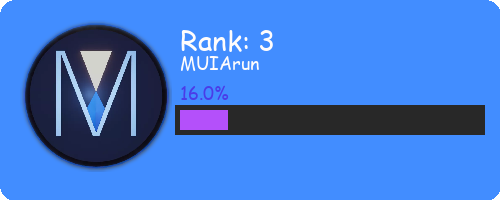
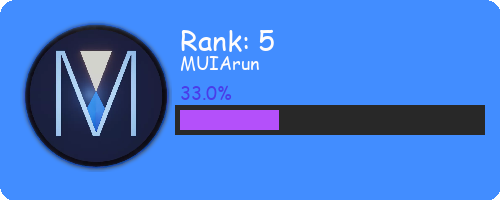
Author variable made for sent message. Cache per person redesign
Author variable made for more efficient referral to the author.

Add xp was made into a function due to the redesign of the cache where each member has their own cooldown per guild. getGuildRanks had to be made into its own function so it could be referred to in multiple places now addXP was in its own function.

On ready info changed to say "starting" instead of "finished" when starting and time to start is given.

Changed region(s): [[0.45, 0.54, 0.57, 0.66], [0.36, 0.42, 0.48, 0.51], [0.51, 0.15, 0.57, 0.24]]

diff --git a/bot.py b/bot.py
@@ -28,8 +28,7 @@ def updateRankImage(user,xp): # Might be able to skip this and go straight to im
 	except ValueError: # If value is too low (can't square root negative) it defaults to zero
 		current_rank = 0
 	percent_to_rank = (xp%(1.8*((current_rank)**2)+10))
-	print("Current rank: "+str(current_rank)+" xp: "+str(xp)+" next rank xp: "+str((1.8*((current_rank)**2)+10)))
-	logger.debug("Percentage to next rank: "+str(percent_to_rank))
+	logger.debug("Current rank: " + str(current_rank) + " xp: " + str(xp) + " next rank xp: " + str((1.8 * ((current_rank) ** 2) + 10)))
 	imaging.makeRankCard(user.avatar_url,(current_rank),percent_to_rank,name=user.name)
 
 class MyClient(discord.Client):
@@ -80,9 +79,31 @@ class MyClient(discord.Client):
 		self.cacheTimer = time.time()
 		logger.debug("Cache successfully created at "+str(self.cacheTimer)+" seconds")
 
-	async def on_ready(self):
+	def getGuildRanks(self,guild):
+		# XP
+		try:
+			ranks = self.data["servers"][str(guild.id)]["ranks"]
+		except KeyError:
+			self.data["servers"][str(guild.id)].update(
+				{"ranks": {}})  # Adds ranks section to data to upgrade the server's data
+			ranks = self.data["servers"][str(guild.id)]["ranks"]
+		return ranks
 
-		logger.info(self.user.name + " is ready (commencing on_ready)")  # Event log
+	async def addXP(self,author,guild):
+		logger.debug("Adding xp to "+author.name)
+		ranks = self.getGuildRanks(guild)
+		try:  # Adds xp to user
+			authorID = str(author.id)
+			ranks[authorID] = ranks[authorID] + 1
+		except KeyError:
+			logger.info("New member " + author.name + " sent first registered message in " + guild.name)
+			ranks.update({authorID: 0})  # Adds person to ranks list
+		self.data["servers"][str(guild.id)]["ranks"] = ranks
+		await self.update_data()
+
+	async def on_ready(self):
+		global startTime
+		logger.info(self.user.name + " is starting (commencing on_ready)")  # Event log
 		if self.guilds != []:
 			logger.info(self.user.name + " is connected to the following guilds:")  # Event log
 			for guild in self.guilds:
@@ -107,7 +128,7 @@ class MyClient(discord.Client):
 		# Creates cache
 		self.resetCache()
 
-		logger.info(self.user.name + " is ready (finished on_ready)")  # Event log
+		logger.info(self.user.name + " is ready (finished on_ready). Finished in "+str(time.time() - startTime)+" seconds")  # Event log
 
 	async def on_guild_join(self, guild):
 		""""Runs on joining a guild."""
@@ -127,39 +148,28 @@ class MyClient(discord.Client):
 
 		logger.debug("Message sent by " + message.author.name)  # Event log
 
+		# Set author of origin
+		author = message.author
+
 		# Don't respond to yourself
-		if message.author.id == self.user.id:
+		if author.id == self.user.id:
 			return
 
 		# Set guild of origin
 		guild = message.guild
 
 		# Refresh cache
-		if time.time() - self.cacheTimer > 60: # After 60 seconds, cache reset
-			self.resetCache()
+		if author.name in self.cache[guild.name]:
+			if time.time() - self.cache[guild.name][author.name] > 60: # After 60 seconds, guild-user cache reset
+				self.cache[guild.name][author.name] = time.time()
+				await self.addXP(author,guild) # Adds xp to author
+			else: # Already sent message during time
+				pass
+				logger.debug("Time left on cooldown: "+str(round((time.time() - self.cache[guild.name][author.name])*10)/10)+" seconds")
 		else:
-			pass
-			#logger.debug("There's still time... "+str(round((time.time() - self.cacheTimer)*10)/10)+" seconds of it used")
+			self.cache[guild.name].update({author.name:time.time()}) # Creates new cache for author on guild
+			await self.addXP(author, guild) # Adds xp to author
 
-		# XP
-		try:
-			ranks = self.data["servers"][str(guild.id)]["ranks"]
-		except KeyError:
-			self.data["servers"][str(guild.id)].update({"ranks":{}}) # Adds ranks section to data to upgrade the server's data
-			ranks = self.data["servers"][str(guild.id)]["ranks"]
-
-		try: # Adds xp to user
-			authorID = str(message.author.id)
-			if authorID not in self.cache[guild.name]:
-				ranks[authorID] = ranks[authorID]+1
-				self.cache[guild.name].update({authorID:True})
-		except KeyError:
-			logger.info("New member "+authorID+" sent first registered message in "+guild.name)
-			ranks.update({authorID:0}) # Adds person to ranks list
-		self.data["servers"][str(guild.id)]["ranks"] = ranks
-		#print(self.data["servers"][str(guild.id)])
-		#print(self.cache[guild.name])
-		await self.update_data()
 
 		# Rules command
 		if message.content == "!rules":
@@ -204,7 +214,7 @@ class MyClient(discord.Client):
 		# Add Role (Arun too smart)
 		if message.content.startswith("!add role"):
 			parameter = message.content[len("!add role "):]  # Sets parameter to everything after the command
-			print("Parameter: " + parameter)
+			logger.debug("Parameter: " + parameter)
 			# Alters rules using the parameters given
 
 			role_name = ""
@@ -212,14 +222,13 @@ class MyClient(discord.Client):
 			role_emoji = ""
 			parameters = parameter.split(",")  # Splits parameter string into a list
 			for param in parameters:
-				print("Checking: " + param)
+				logger.debug("Checking: " + param)
 				if param.startswith("name="):
-					print("name")
 					role_name = param[len("name="):]
 					# Find role id for role with name
-					print("Roles are:\n" + str(guild.roles))
+					logger.debug("Roles are:\n" + str(guild.roles))
 					for role in guild.roles:
-						print("Role " + role.name)
+						logger.debug("Role " + role.name)
 						if role.name == role_name:
 							role_id = role.id
 							break
@@ -362,7 +371,8 @@ class MyClient(discord.Client):
 
 		# Sends user rank image
 		if message.content.startswith("!get rank"):
-			updateRankImage(message.author,ranks[str(message.author.id)])
+			ranks = self.getGuildRanks(guild)
+			updateRankImage(author,ranks[str(author.id)])
 			embed_rank = discord.Embed()
 			file = discord.File("card.png")
 			embed_rank.set_image(url="attachment://card.png")
@@ -564,6 +574,7 @@ class MyClient(discord.Client):
 
 
 # Main body
+startTime = time.time()
 try:
 	intents = discord.Intents.default()
 	intents.members = True
